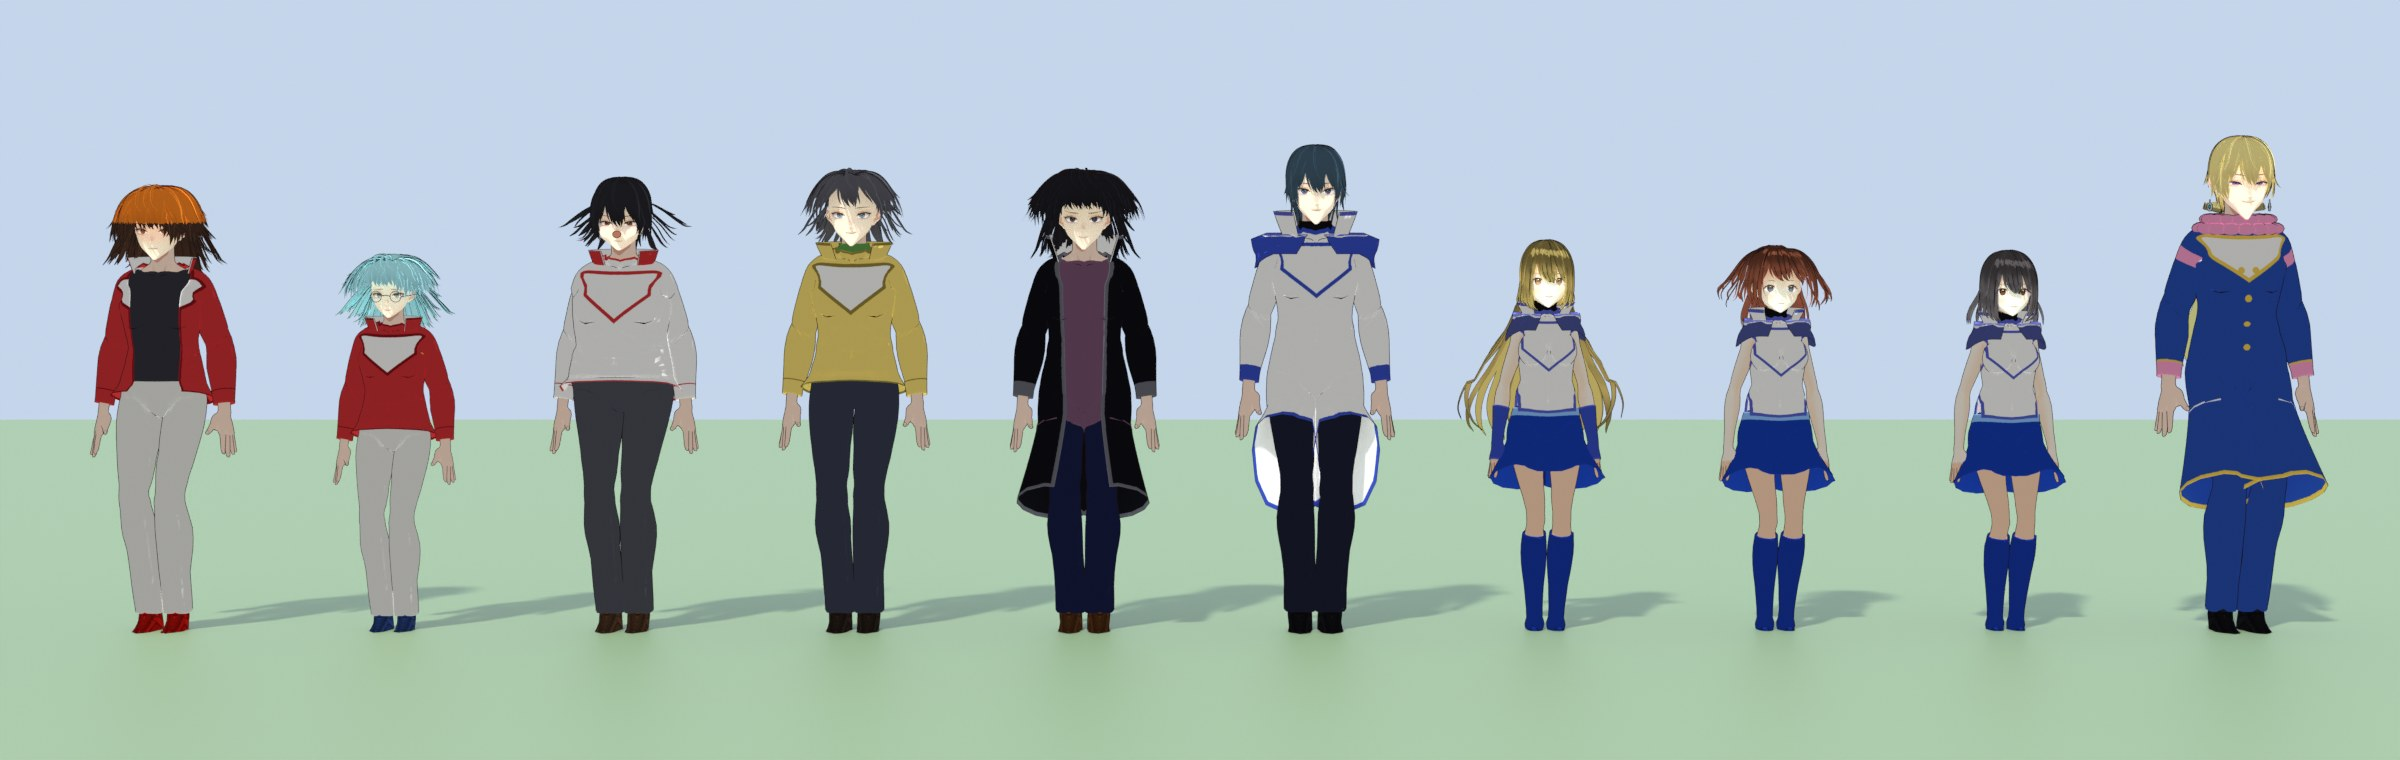
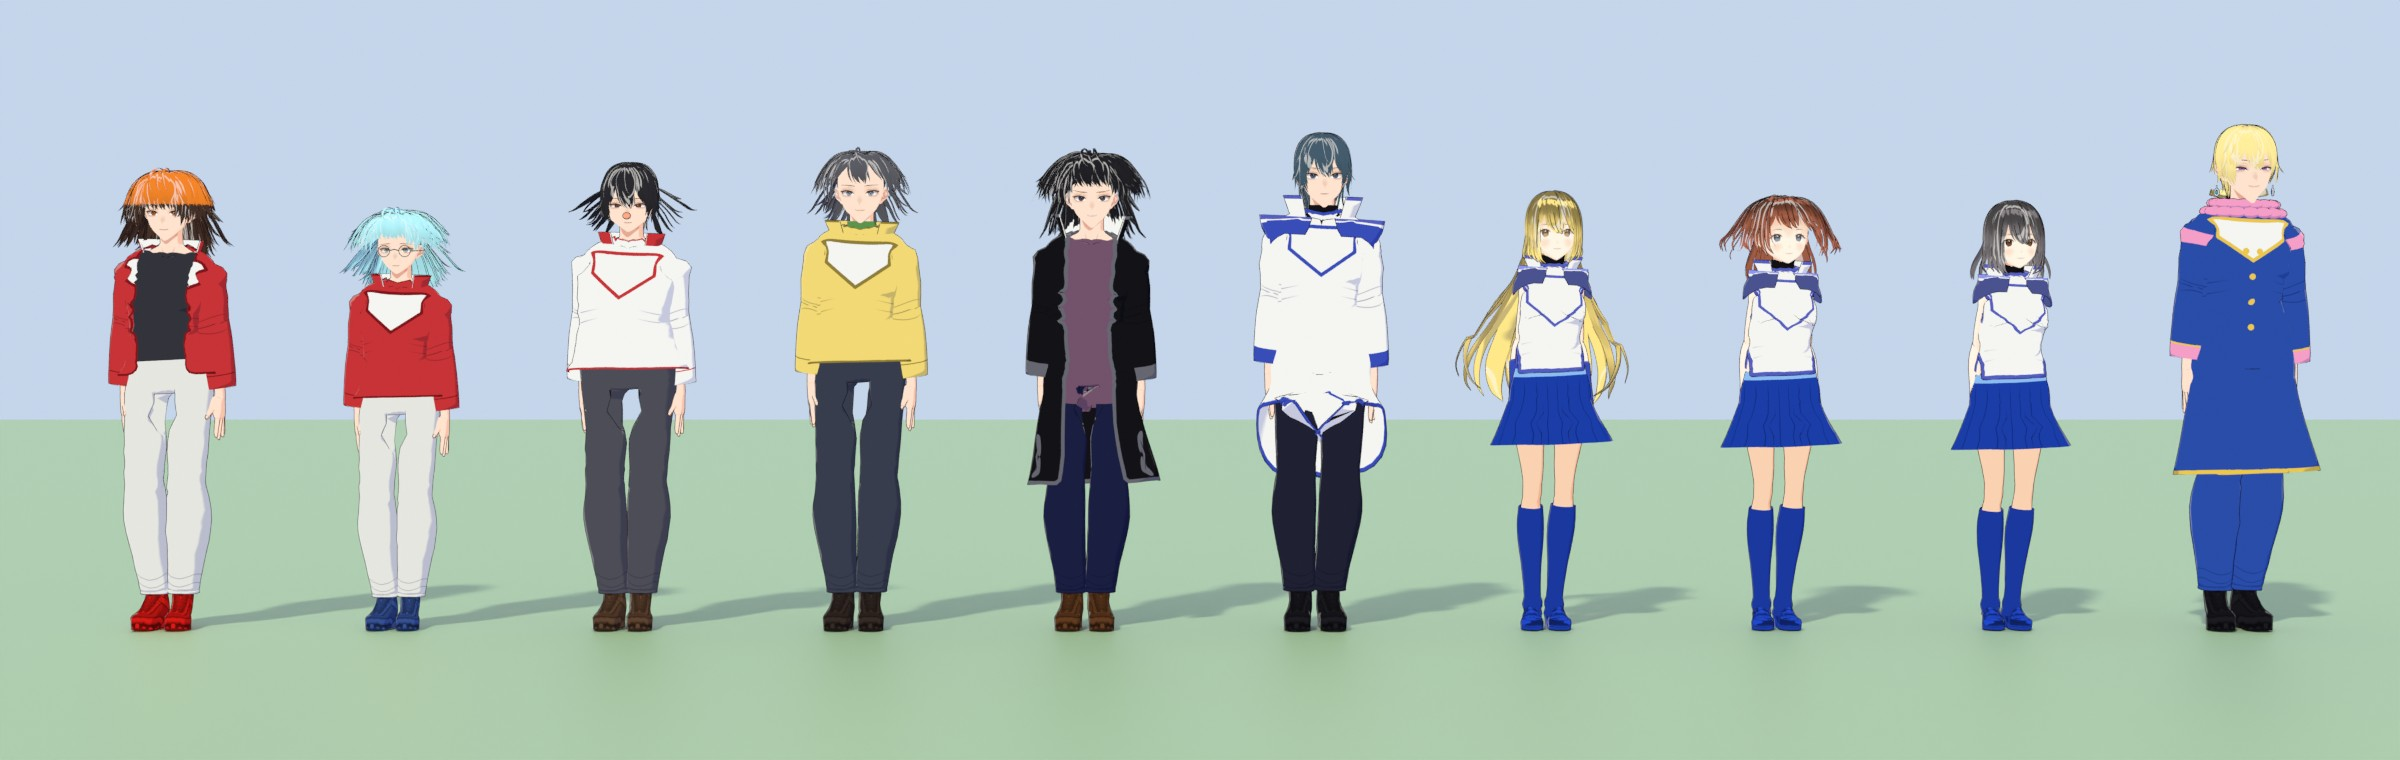
Docs: new cast lineup, portraits and Talk renders
Claude-Session: https://claude.ai/code/session_018pxyxjQMrFUrUBUZvJJV67

diff --git a/README.md b/README.md
@@ -97,7 +97,15 @@ Egyptian-god theming), not a copy of any copyrighted asset. All card names in th
 
 ![Anime cast](Docs/renders/cast.jpg)
 
-*Jaden, Syrus, Chumley, Bastion, Chazz, Zane, Alexis, Jasmine, Mindy and Dr. Crowler (Cycles preview).*
+*Jaden, Syrus, Chumley, Bastion, Chazz, Zane, Alexis, Jasmine, Mindy and Dr. Crowler (Cycles preview), at their heights, cel shaded, in draped uniforms).*
+
+![Cast portraits](Docs/renders/cast_portraits.jpg)
+
+*Cel-shaded close-ups: smoothed anime face normals, coloured shadows, rim light, hair highlight arcs.*
+
+![Talk take](Docs/renders/cast_talk.jpg)
+
+*The Talk take over the contrapposto idle.*
 
 Everyone on the island is an **anime character model**: the VRoid sample avatars (VRoid Project / pixiv,
 whose terms allow modification and redistribution) restyled by the pipeline after the characters' official
